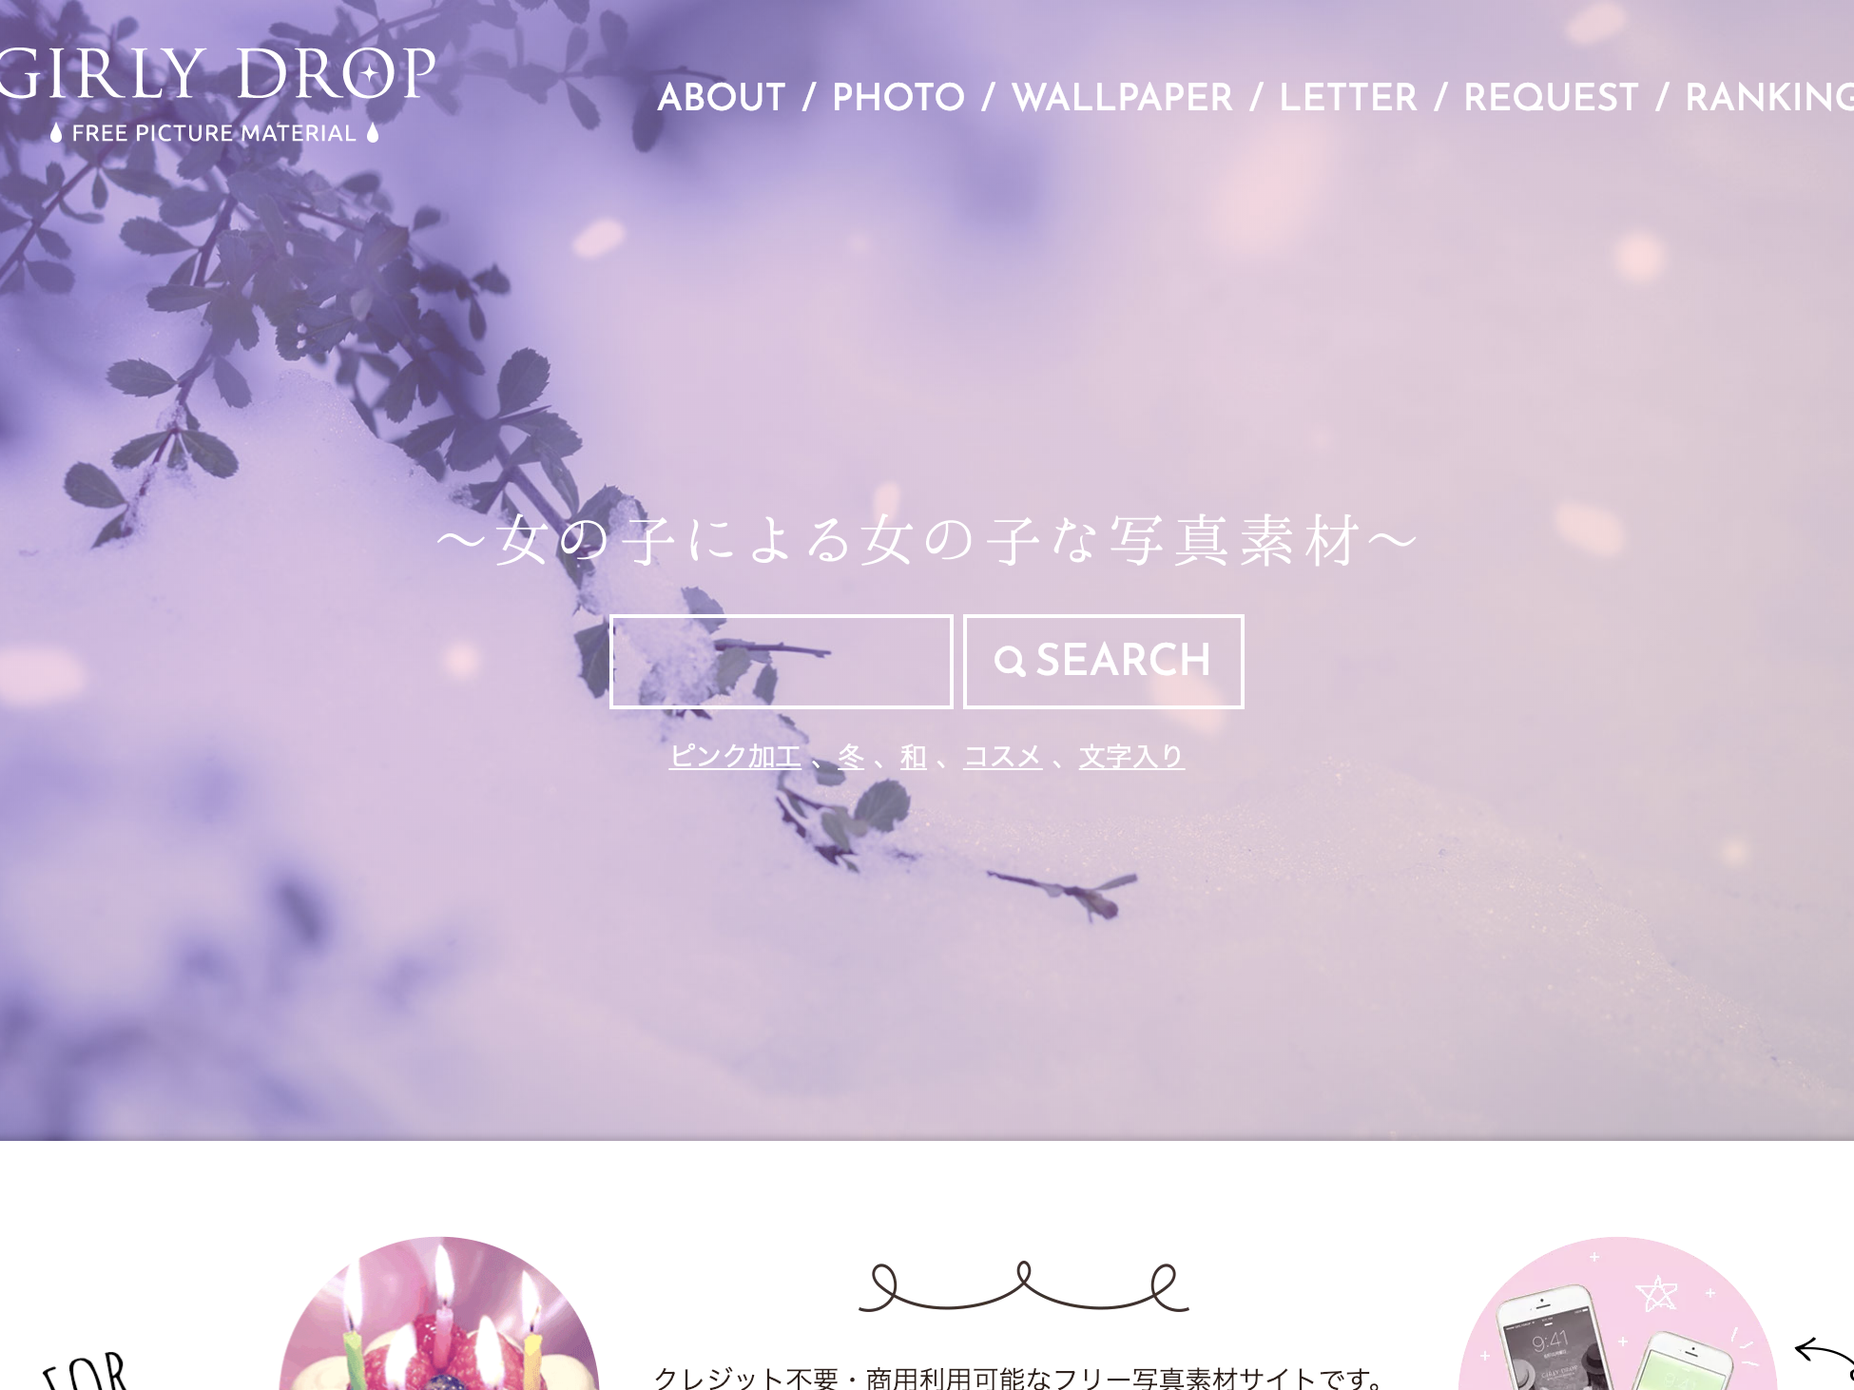
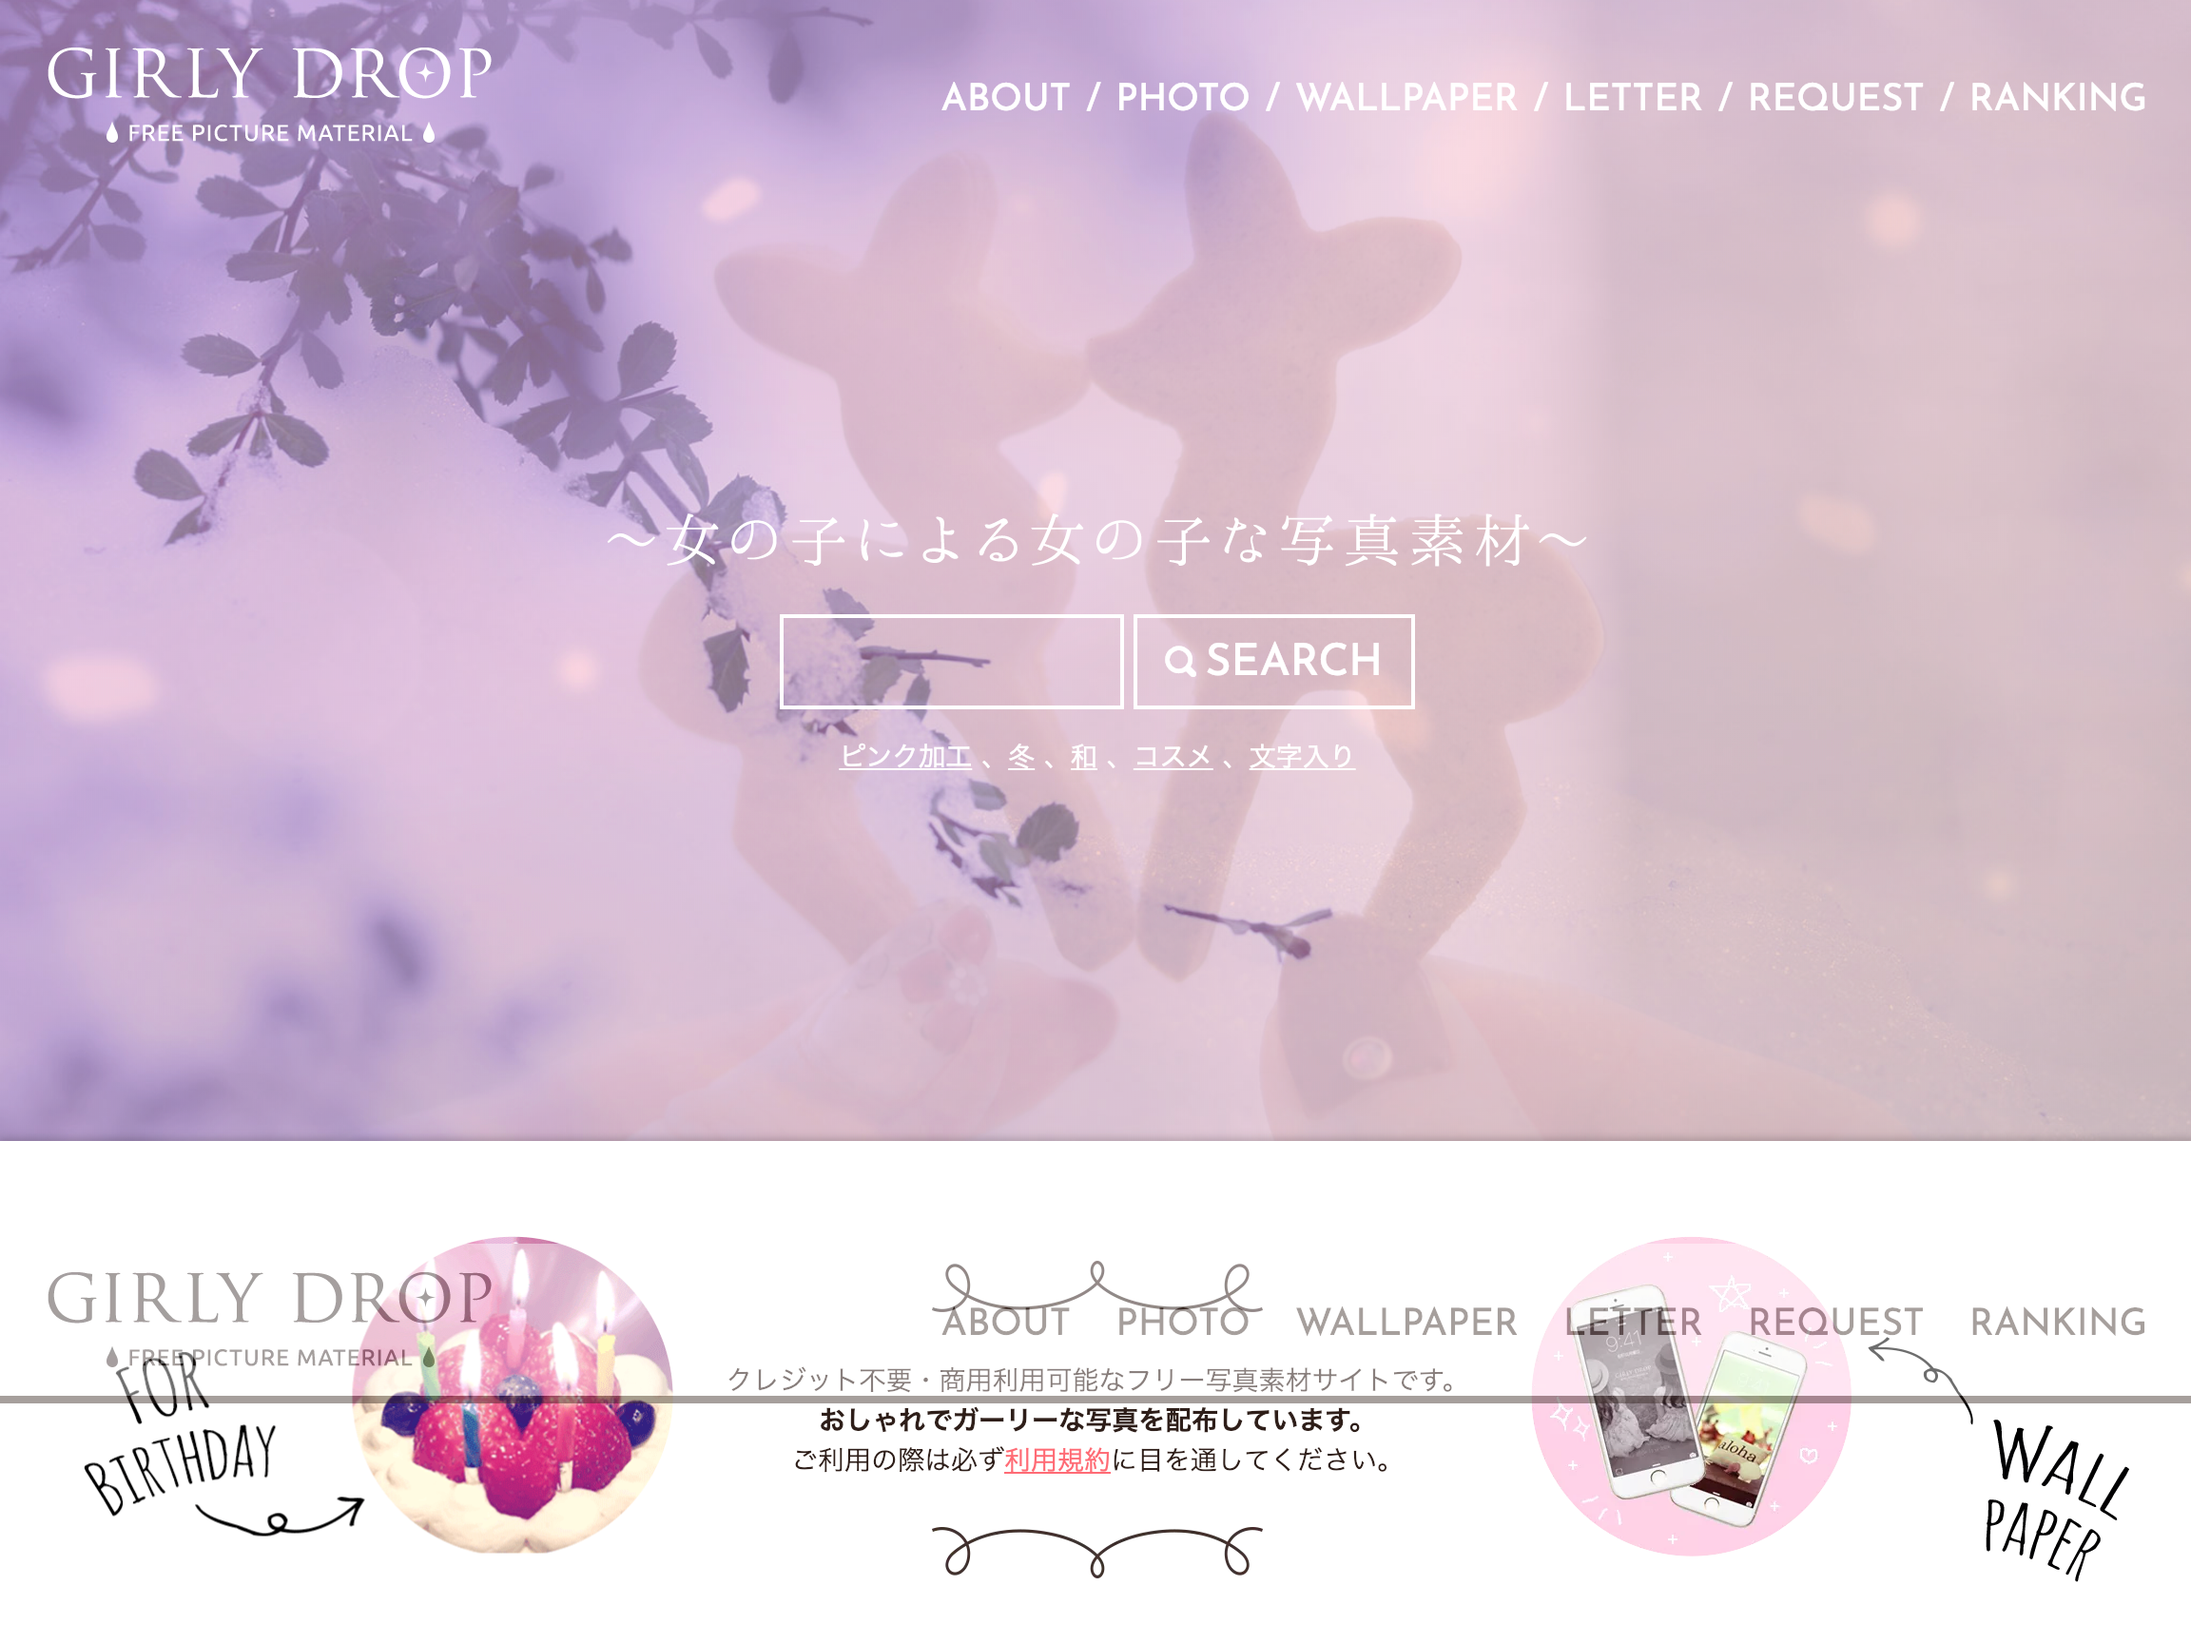
update images and index.html

diff --git a/index.html b/index.html
@@ -253,8 +253,8 @@
               <div
                 class="col-lg-4 col-md-6 portfolio-thumbnail all mockups webdesign photography"
               >
-                <a class="popup-img" href="images/portfolio/4.jpg">
-                  <img src="images/portfolio/4.jpg" alt="img" />
+                <a class="" href="https://girlydrop.com/" target="_blank">
+                  <img src="images/portfolio/girlydrop.png" alt="img" />
                 </a>
               </div>
 
